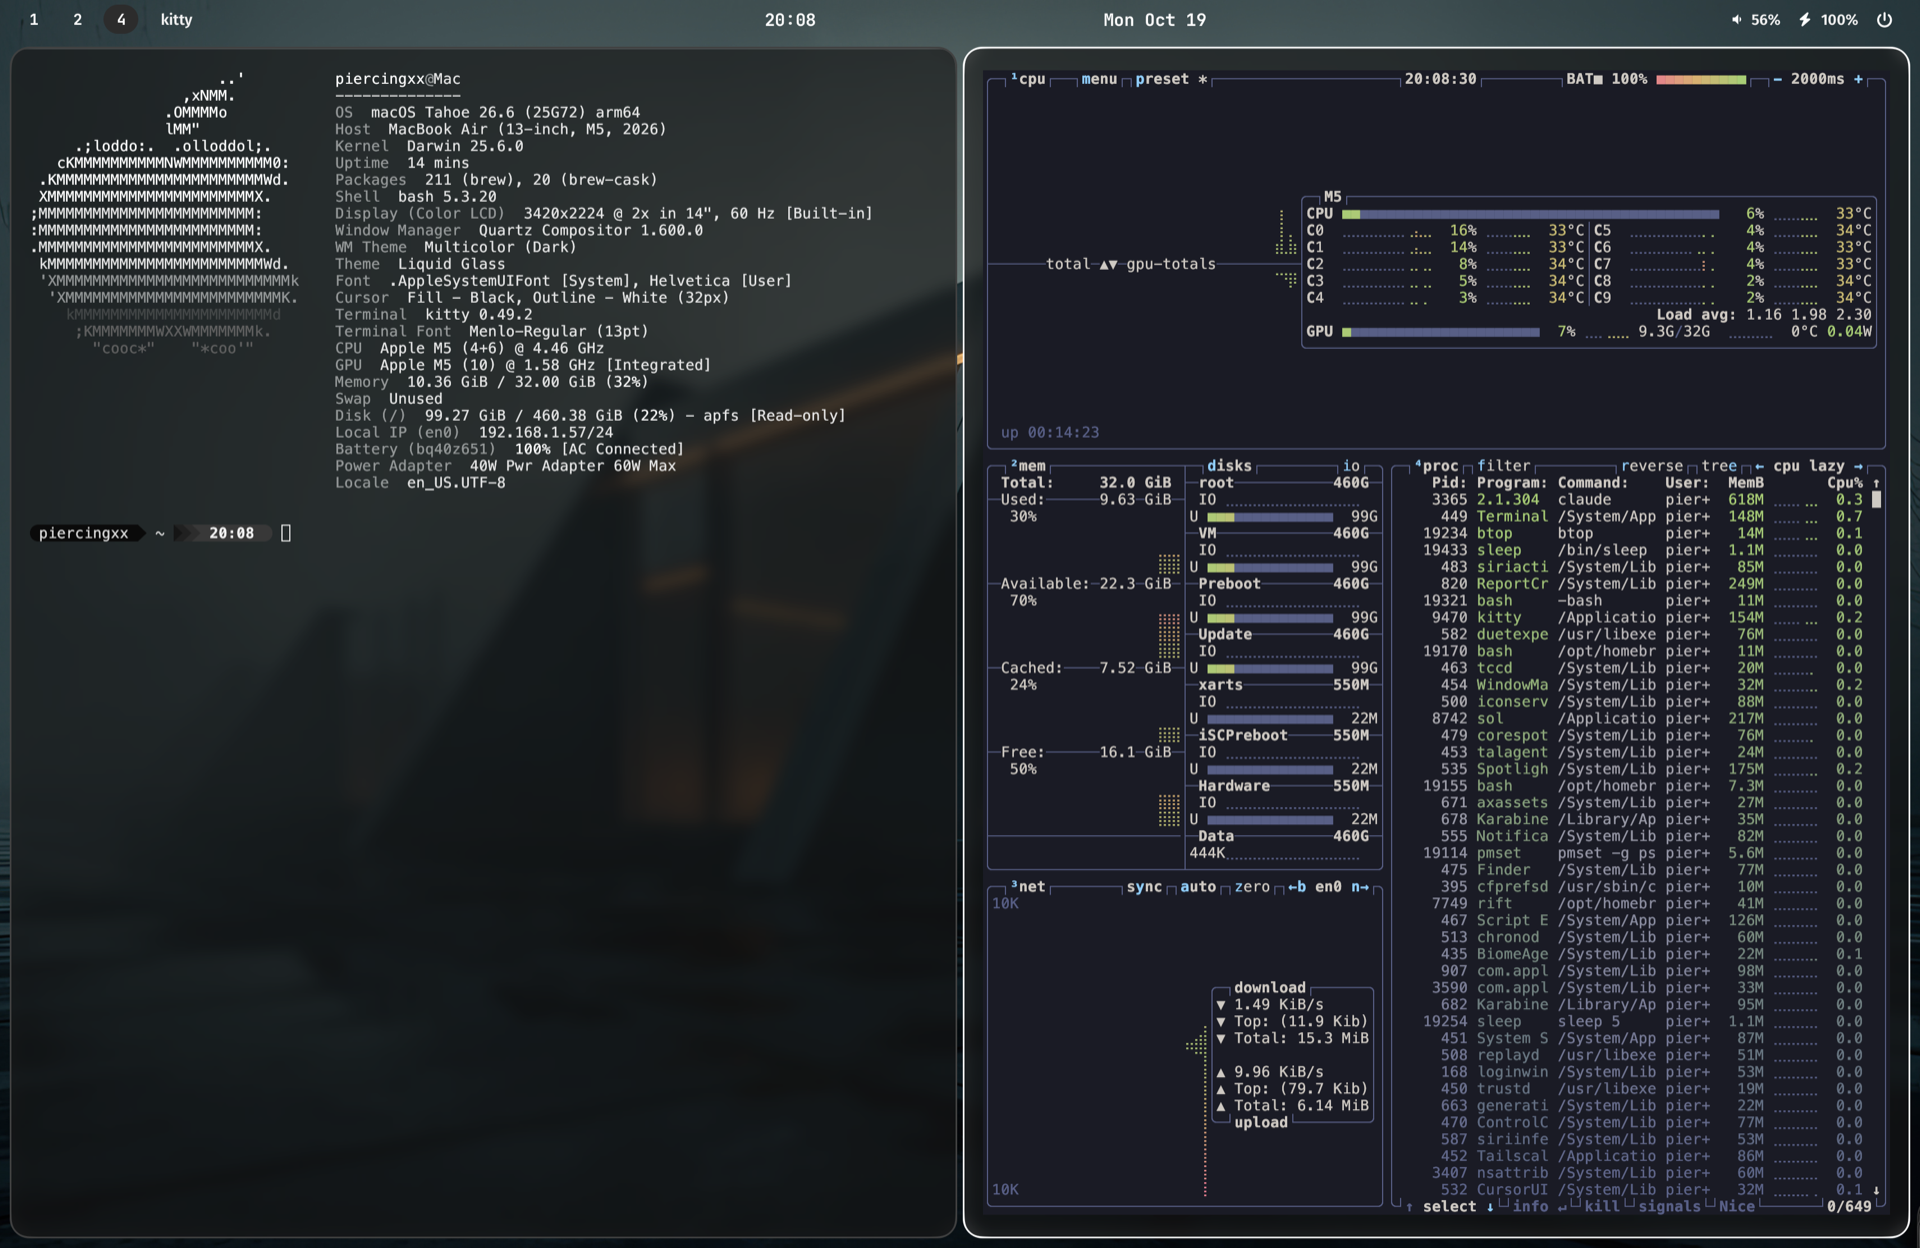
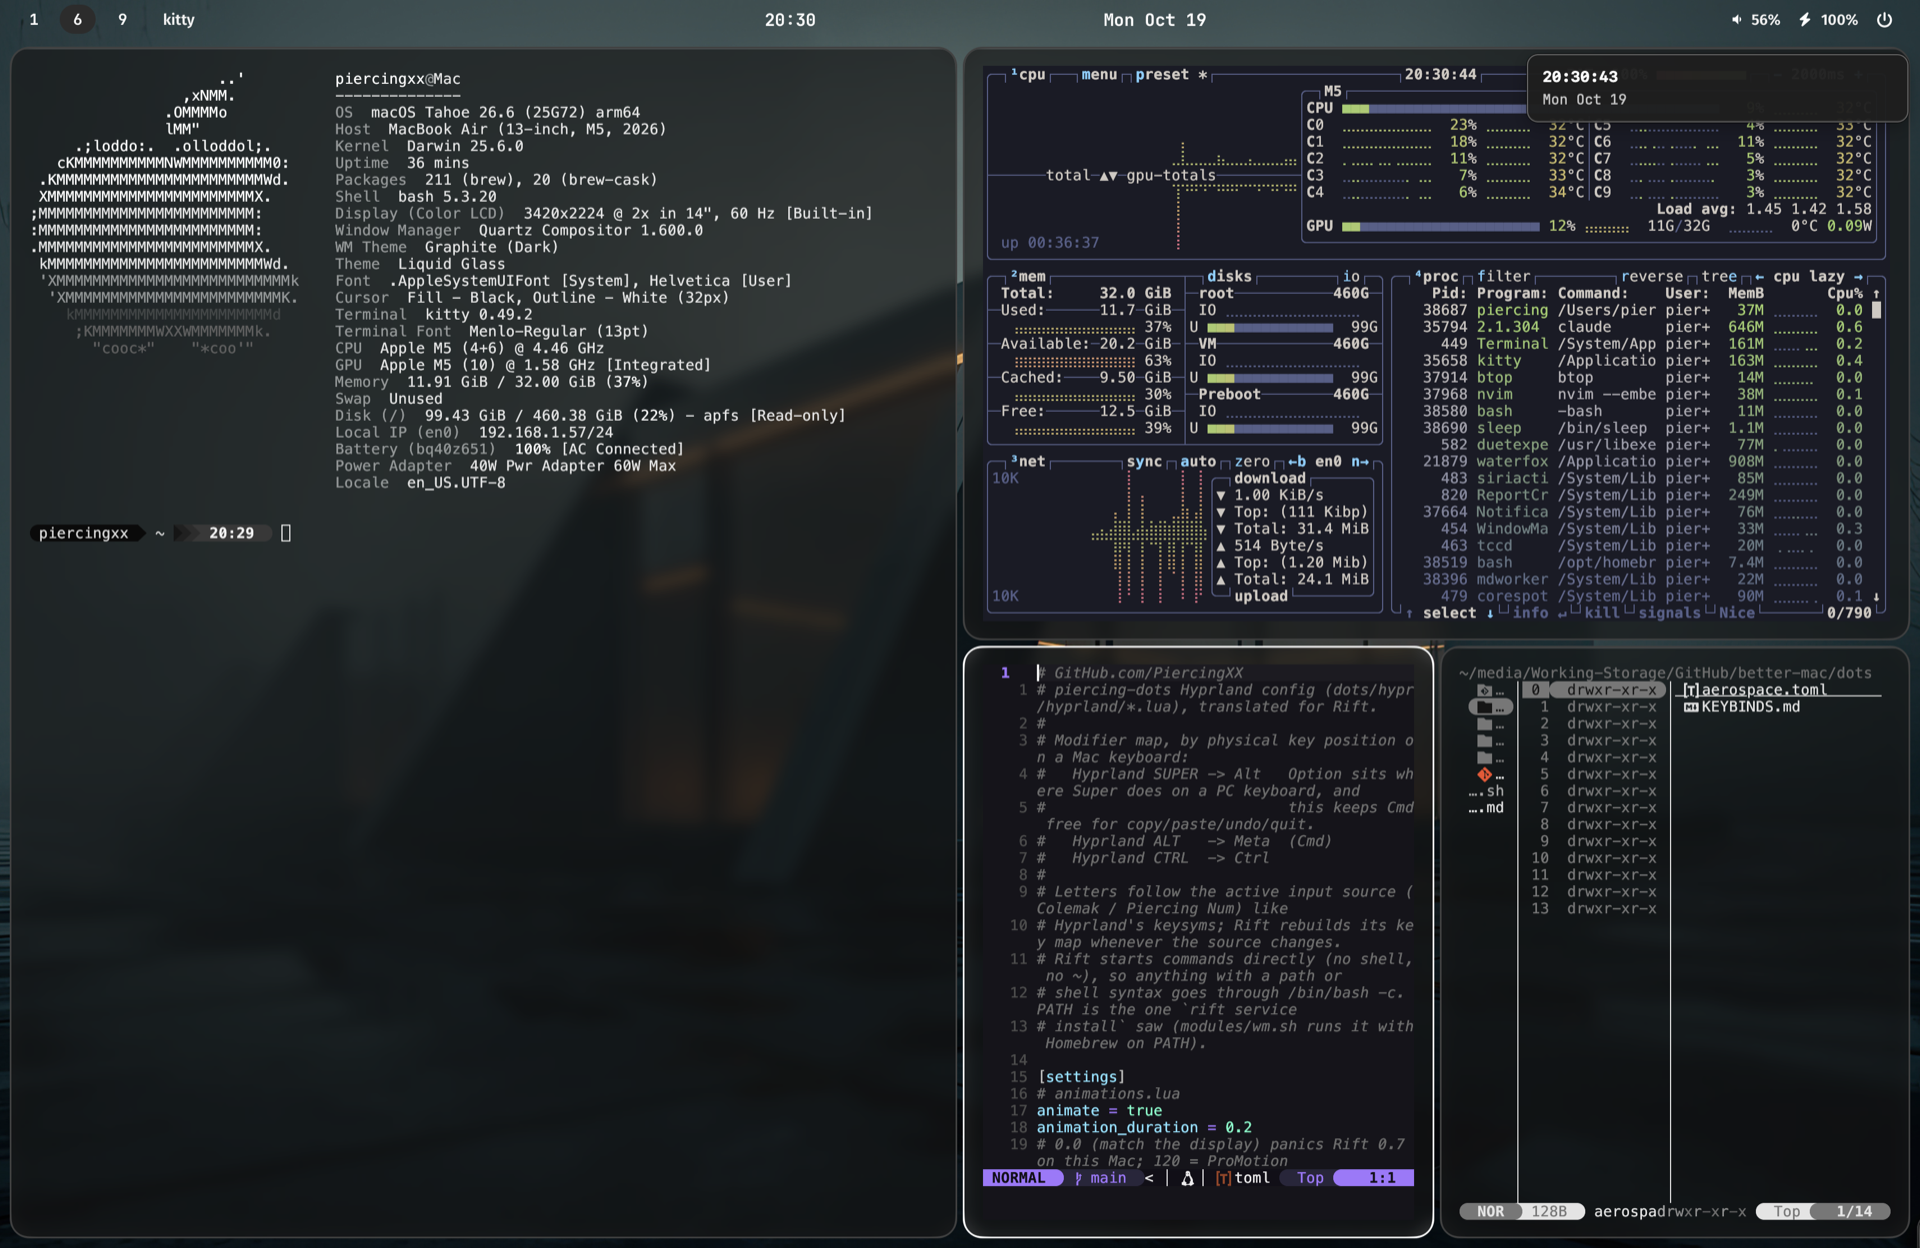
All macOS notifications off, popups never take focus, tiling screenshot
- modules/system.sh turns off every registered app's notifications; the
  scripts' notifications come from piercing-notify
- piercing-notify runs as a background-only process, so a popup no longer
  steals focus or the bar's app name
- New after screenshot: four windows tiled by Rift with a popup

Changed region(s): [[0.5, 0.0312, 1.0, 1.0], [0.2188, 0.1875, 0.2812, 0.2188], [0.0625, 0.0, 0.0938, 0.0312]]

diff --git a/dots/notify/piercing-notify.swift b/dots/notify/piercing-notify.swift
@@ -76,7 +76,9 @@ func cleanUp() {
 
 // ---- The popup ----
 let app = NSApplication.shared
-app.setActivationPolicy(.accessory)
+// Never the active app: focus and the bar's app name stay on the window
+// you were using
+app.setActivationPolicy(.prohibited)
 
 func font(_ size: CGFloat, bold: Bool) -> NSFont {
     let f = NSFont(name: fontName + (bold ? " Bold" : ""), size: size)
